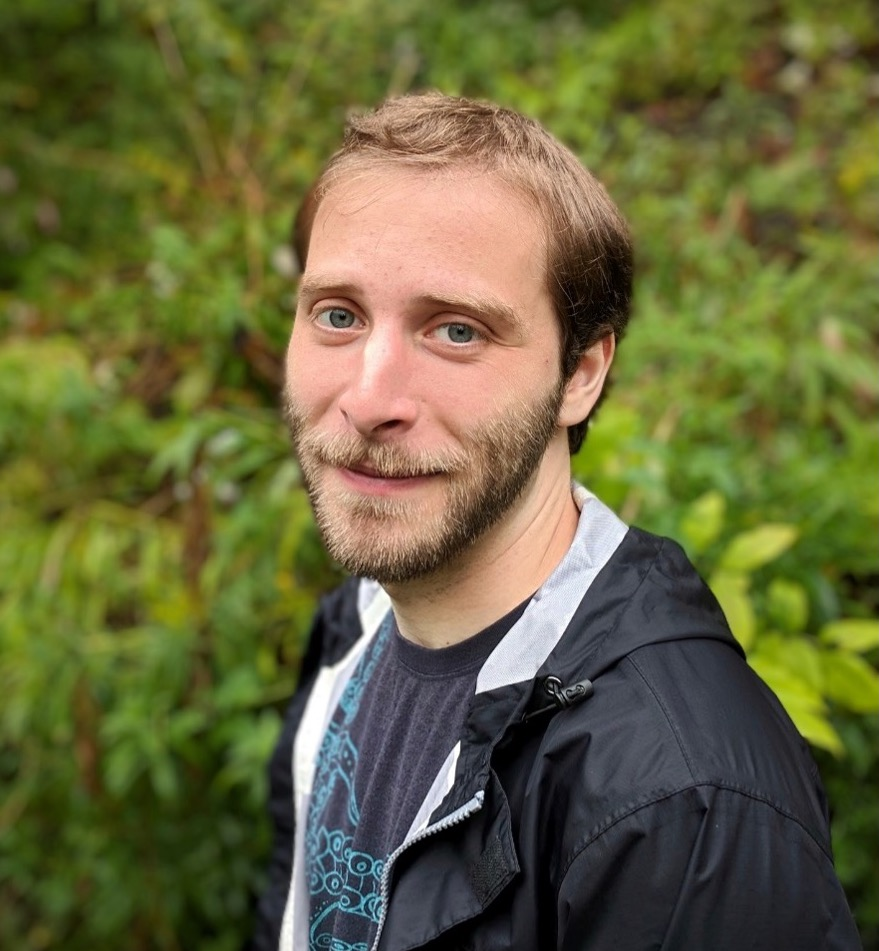
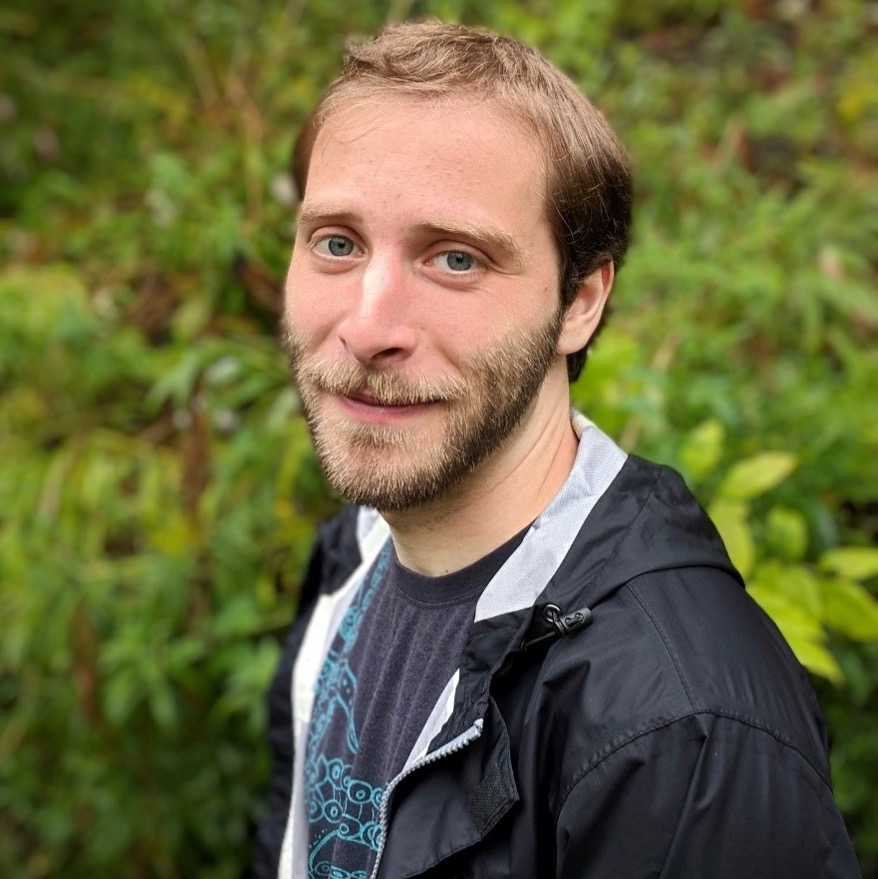
update news, pubs, team

diff --git a/_site/people/index.html b/_site/people/index.html
@@ -61,24 +61,6 @@ Twitter: <a href="https://twitter.com/popgenchen">@popgenchen</a> <br />
 Pronouns: she/her/hers
 <br /><br /><br /></p>
 
-<p><img src="http://localhost:4000/images/teampic/ElizabethFlesch.jpg" alt="" style="width: 350px; float: left; border: 60px" /></p>
-<h3 id="elizabeth-flesch---postdoctoral-scholar-co-advised-by-jay-rotella">Elizabeth Flesch - <em>Postdoctoral Scholar (co-advised by Jay Rotella)</em></h3>
-
-<p>Elizabeth is interested in understanding how external forces influence population genetics across landscapes.  She is using demographic and genomic methods to evaluate the spatial scale of dispersal and gene flow among breeding colonies of Weddell seals found in Antarctica.  This approach will help identify potential drivers of temporal variation in immigration.  Elizabeth earned her Ph.D. at Montana State University, where her dissertation addressed the population genomics of bighorn sheep in the Rocky Mountains.  In her free time, she enjoys rock climbing, gardening, and hiking.</p>
-
-<p>Pronouns: she/her/hers</p>
-
-<p><br /></p>
-
-<p><img src="http://localhost:4000/images/teampic/DanielSeidman.jpg" alt="" style="width: 350px; float: left; border: 60px" /></p>
-<h3 id="daniel-seidman---postdoctoral-scholar">Daniel Seidman - <em>Postdoctoral Scholar</em></h3>
-
-<p>Daniel joined the Chen lab in late 2022. He mainly studied computational biology for his PhD, with an emphasis on making new tools to improve or facilitate genomic analyses. He has a long-term goal of facilitating analyses of non-model organisms. In the Chen lab, he is looking into the Florida Scrub Jay, using the lab’s available datasets to investigate organismal fitness on a genomic level. He has occasionally made educational stop-motion or Claymation shorts, and is looking into making one for this lab as well.</p>
-
-<p>Pronouns: he/him/his</p>
-
-<p><br /><br /><br /><br /><br /><br /><br /><br /></p>
-
 <p><img src="http://localhost:4000/images/teampic/Shailee.jpg" alt="" style="width: 350px; float: left; border: 10px" /></p>
 <h3 id="shailee-shah---postdoctoral-scholar">Shailee Shah - <em>Postdoctoral Scholar</em></h3>
 
@@ -88,14 +70,14 @@ Pronouns: she/her/hers
 
 <p><br /><br /><br /></p>
 
-<p><img src="http://localhost:4000/images/teampic/BrianKirz.jpg" alt="" style="width: 350px; float: left; border: 60px" /></p>
+<p><img src="http://localhost:4000/images/teampic/BrianKirz.png" alt="" style="width: 350px; float: left; border: 60px" /></p>
 <h3 id="brian-kirz---graduate-student">Brian Kirz - <em>Graduate Student</em></h3>
 
-<p>Brian joined the Chen Lab in 2024 as a graduate student. As an undergraduate, he studied computational biology and developed methods to detect archaic introgression from other hominins. Brian is interested in investigating how life history strategies impact the genetics and genomics of small populations. Outside of the lab, he enjoys cooking, biking at night, and overly complicated map games.</p>
+<p>Brian joined the Chen Lab in 2024 as a graduate student. He is interested in the relative importance of selection, drift, and gene flow, as well as how they shape variation in natural populations. His work with the North American red squirrel investigates the effect of fluctuating environments on variation in fitness, long-term genetic contributions, and genome-wide selection. Outside of the lab, Brian enjoys poetry, biking at night, and overly complicated map games.</p>
 
 <p>Pronouns: he/him/his</p>
 
-<p><br /><br /><br /><br /><br /><br /><br /><br /><br /><br /></p>
+<p><br /><br /><br /><br /><br /><br /></p>
 
 <p><img src="http://localhost:4000/images/teampic/FayeRomero.jpg" alt="" style="width: 350px; float: left; border: 10px" /></p>
 <h3 id="faye-romero---graduate-student">Faye Romero - <em>Graduate Student</em></h3>
@@ -168,6 +150,8 @@ Pronouns: she/her/hers
 
 <p>Tiffany Dias (undergraduate) - became a PhD student at the University of Michigan</p>
 
+<p>Elizabeth Flesch (postdoc) - became a biologist at USFWS</p>
+
 <p>Xuewen Geng (undergraduate) - became a PhD student a UWaterloo</p>
 
 <p>Syed Ars Ghani (undergraduate) - became a Take 5 Scholar</p>
@@ -188,6 +172,8 @@ Pronouns: she/her/hers
 
 <p>Siddarth Seenivasa (undergraduate)</p>
 
+<p>Daniel Seidman (postdoc)</p>
+
 <p>Gladiana Spitz (undergraduate) - became a PhD student at CU Boulder</p>
 
 <p>Ceylin Zeybek (visiting undergraduate) - became a PhD student at Kyoto University</p>
@@ -202,6 +188,7 @@ Pronouns: she/her/hers
   <img src="/images/teampic/Tamanna.jpeg" width="250" />
   <img src="/images/teampic/Michaela.png" width="250" />
   <img src="/images/teampic/Tiffany.jpg" width="250" /> 
+  <img src="/images/teampic/ElizabethFlesch.jpg" width="250" />
   <img src="/images/teampic/Xuewen.jpg" width="250" /> 
   <img src="/images/teampic/KristinHardy.jpg" width="250" /> 
   <img src="/images/teampic/Martha.jpeg" width="250" />
@@ -211,28 +198,27 @@ Pronouns: she/her/hers
   <img src="/images/teampic/Lindsey.jpg" width="250" />
   <img src="/images/teampic/Nandini.jpeg" width="250" />
   <img src="/images/teampic/Sid.JPG" width="250" />
+  <img src="/images/teampic/DanielSeidman.jpg" width="250" />
   <img src="/images/teampic/Gladiana.jpg" width="250" />
   <img src="/images/teampic/ceylin.JPG" width="250" />
 </p>
 
 <h3 id="collaborators">Collaborators</h3>
-<p><a href="http://www.archbold-station.org/html/aboutus/staffpages/rbowman/rbowman.html">Reed Bowman</a>, Archbold Biological Station</p>
+<p><a href="http://www.sahasbarve.com/">Sahas Barve</a>, Archbold Biological Station</p>
 
 <p><a href="https://blogs.cornell.edu/clarklabblog/">Andy Clark</a>, Cornell University</p>
 
-<p><a href="https://gcbias.org/">Graham Coop</a>, UC Davis</p>
+<p><a href="https://sites.lsa.umich.edu/dantzerlab/">Ben Dantzer</a>, U Michigan</p>
 
 <p><a href="http://ecologyandevolution.cornell.edu/john-weaver-fitzpatrick">John Fitzpatrick</a>, Cornell Lab of Ornithology</p>
+
+<p><a href="https://sites.google.com/site/harriskelley/home">Kelley Harris</a>, University of Washington</p>
 
 <p><a href="https://umdrive.memphis.edu/sschoech/www/">Steve Schoech</a>, University of Memphis</p>
 
 <p><a href="https://sejohnston.com/">Susan Johnston</a>, University of Edinburgh</p>
 
-<p><a href="http://pemberton.bio.ed.ac.uk/home">Josephine Pemberton</a>, University of Edinburgh</p>
-
 <p><a href="http://www.mcadamlab.ca/">Andrew McAdam</a>, CU Boulder</p>
-
-<p><a href="https://hamiltoncs.org/townsend/">Andrea Townsend</a>, Hamilton College</p>
 
 <p><a href="https://www.montana.edu/rotella/">Jay Rotella</a>, Montana State University</p>
 

diff --git a/_site/publications/index.html b/_site/publications/index.html
@@ -52,19 +52,25 @@
   <h1 id="publications">Publications</h1>
 
 <h3 id="check-out-our-publications-on-google-scholar">Check out our publications on <a href="https://scholar.google.com/citations?user=VOpNPTgAAAAJ&amp;hl=en">Google Scholar</a></h3>
-<p><img src="http://localhost:4000/images/pubpic/PLOSgeneticsAug2017cover.png" class="img-responsive" width="25%" style="float: right; padding-left: 15px" />
+<p><img src="http://localhost:4000/images/pubpic/EcologyLettersJan2025Cover.png" class="img-responsive" width="25%" style="float: right; padding-left: 15px" />
 <br /></p>
 
 <h3 id="peer-reviewed"><strong>Peer-reviewed</strong></h3>
-<p><strong>Summers J</strong>, Cosgrove EJ, Bowman R, Fitzpatrick JW, <strong>Chen N</strong>. <em>In press</em>. Density dependence maintains long-term stability despite increased isolation and inbreeding in the Florida Scrub-Jay. <em>Ecology Letters</em>. <a href="https://doi.org/10.1101/2024.01.10.575127">bioRxiv doi.</a><br />
+<p>Linderoth T, Deaner L, <strong>Chen N</strong>, Bowman R, Boughton R, Fitzpatrick SW. <em>In press</em>. Translocations spur population growth but fail to prevent genetic erosion in imperiled Florida Scrub-Jays. <em>Current Biology</em>. <a href="https://doi.org/10.1101/2023.11.11.566550">bioRxiv</a><br />
 <br /></p>
 
-<p><strong>Samanta N</strong>, <strong>Schiller E</strong>, <strong>López-Molini I</strong>, <strong>Martin M</strong>, Flores I, Meyer AS, <strong>Chen N</strong>. <em>In press</em>. An endometriosis symptom-based predictive model as an accessible, noninvasive diagnostic tool. <em>Journal of Endometriosis and Pelvic Pain Disorders</em>.<br />
+<p><strong>Summers J</strong>, Cosgrove EJ, Bowman R, Fitzpatrick JW, <strong>Chen N</strong>. 2024. Density dependence maintains long-term stability despite increased isolation and inbreeding in the Florida Scrub-Jay. <a href="https://doi.org/10.1111/ele.14483"><em>Ecology Letters</em> 27: e14483.</a><br />
 <br /></p>
 
-<p><strong>Geng X</strong>, <strong>Summers J</strong>, <strong>Chen N</strong>. 2024. Ecological niche contributes to the persistence of the Western x Glaucous-winged Gull hybrid zone. <a href="https://doi.org/10.1002/ece3.11678"><em>Ecology and Evolution</em> 14: e11678.</a><br /></p>
+<p><strong>Romero FR</strong>, <strong>Beaudry FEG</strong>, <strong>Hovman Warner E</strong>, Nguyen TN, Fitzpatrick JW, <strong>Chen N</strong>. 2024. A new high-quality genome assembly and annotation for the threatened Florida Scrub-Jay (<em>Aphelocoma coerulescens</em>). <a href="https://doi.org/10.1093/g3journal/jkae232"><em>G3</em>: jkae232.</a><br />
+<br /></p>
 
-<p><img src="http://localhost:4000/images/pubpic/GeneticsJuly2024cover.png" class="img-responsive" width="25%" style="float: right; padding-left: 15px" />
+<p><img src="http://localhost:4000/images/pubpic/GeneticsJuly2024cover.png" class="img-responsive" width="25%" style="float: right; padding-left: 15px" /></p>
+
+<p><strong>Samanta N</strong>, <strong>Schiller E</strong>, <strong>López-Molini I</strong>, <strong>Martin M</strong>, Flores I, Meyer AS, <strong>Chen N</strong>. 2024. An endometriosis symptom-based predictive model as an accessible, noninvasive diagnostic tool. <a href="https://journals.sagepub.com/doi/10.1177/22840265241257295"><em>Journal of Endometriosis and Pelvic Pain Disorders</em> 16(2): 71-78.</a><br />
+<br /></p>
+
+<p><strong>Geng X</strong>, <strong>Summers J</strong>, <strong>Chen N</strong>. 2024. Ecological niche contributes to the persistence of the Western x Glaucous-winged Gull hybrid zone. <a href="https://doi.org/10.1002/ece3.11678"><em>Ecology and Evolution</em> 14: e11678.</a><br />
 <br /></p>
 
 <p><strong>Driscoll RMH</strong>, <strong>Beaudry FEG</strong>, Cosgrove EJ, Bowman R, Fitzpatrick JW, Schoech SJ, <strong>Chen N</strong>. 2024. Allele frequency dynamics under sex-biased demography and sex-specific inheritance in a pedigreed population. <a href="https://doi.org/10.1093/genetics/iyae075"><em>Genetics</em> 227: iyae075.</a><br />
@@ -72,6 +78,8 @@
 
 <p>Townsend A, Jones M, <strong>Chen N</strong>, Chivily C, McAndrews C, Clark A, McGowan K, Eimes J. 2023. Increased genetic diversity and immigration after West Nile virus emergence in American crows: No evidence for a genetic bottleneck. <a href="https://doi.org/10.1111/mec.17037"><em>Molecular Ecology</em> 00: 1–10.</a><br />
 <br /></p>
+
+<p><img src="http://localhost:4000/images/pubpic/PLOSgeneticsAug2017cover.png" class="img-responsive" width="25%" style="float: right; padding-left: 15px" /></p>
 
 <p><strong>Summers J</strong>, Lukas D, Logan C, <strong>Chen N</strong>. 2023. The role of climate change and niche shifts in divergent range dynamics of a sister-species pair. <a href="https://peercommunityjournal.org/articles/10.24072/pcjournal.248/"><em>Peer Community Journal</em> 3: e23. doi: 10.24072/pcjournal.248.</a><br />
 <br /></p>
@@ -133,7 +141,17 @@
 <p><strong>Chen N</strong>, Gascoin F, Muller E, Karpinski G, Stiewe C, Snyder GJ. 2005. Macroscopic thermoelectric inhomogeneities of (AgSbTe2)<sub>x</sub>(PbTe)<sub>1-x</sub>. <a href="http://scitation.aip.org/content/aip/journal/apl/87/17/10.1063/1.2056590"><em>Applied Physics Letters</em> 87: 171903.</a> <br />
 <br /></p>
 
+<h3 id="preprints"><strong>Preprints</strong></h3>
+<p>Nguyen TN, Cosgrove EJ, <strong>Chen N</strong>, Lehr N, Lokey MG, Beaudry FE, Fitzpatrick SW, Bowman R, Miller K, Fitzpatrick JW, Clark AG. Whole-genome sequencing across space and time reveals impact of population decline and reduced gene flow in Florida Scrub-Jays. <a href="https://doi.org/10.1101/2024.11.05.622154"><em>bioRxiv</em> doi: https://doi.org/10.1101/2024.11.05.622154</a>.<br />
+<br /></p>
+
+<p><strong>Shah S</strong>, <strong>Diamond J</strong>, Barve S, Cosgrove EJ, Bowman R, Fitzpatrick JW, <strong>Chen N</strong>. Lifetime fitness benefits of breeding site fidelity and low costs of inbreeding permit inbreeding tolerance in an avian cooperative breeder. <a href="https://doi.org/10.1101/2024.09.21.614049"><em>bioRxiv</em> doi: https://doi.org/10.1101/2024.09.21.614049</a>.<br />
+<br /></p>
+
 <h3 id="other"><strong>Other</strong></h3>
+<p>Tringali A, <strong>Chen N</strong>. 2024. In Memoriam: Reed Bowman, 1958–2023. <a href="https://doi.org/10.5751/JFO-00440-950114"><em>Journal of Field Ornithology</em> 95(1): art14.</a><br />
+<br /></p>
+
 <p><strong>Chen N</strong>. 2020. A gene for color differences between sexes. <a href="https://science.sciencemag.org/content/368/6496/1185.abstract"><em>Science</em> 368(6496): 1185-1186.</a> <br />
 <br /></p>
 

diff --git a/_site/index.html b/_site/index.html
@@ -74,6 +74,12 @@ We acknowledge that the Chen lab operates on the colonized land of the Onöndowa
 <h4>News</h4>
 
 
+<b>Jan 2025</b>
+<p>Jeremy's paper was featured on the cover of <a href='https://doi.org/10.1111/ele.14483'>Ecology Letters</a>. <img src='/images/pubpic/EcologyLettersJan2025Cover.png' class='img-responsive' style='max-width: 240px' /></p>
+
+<b>Sept 2024</b>
+<p>Faye's paper on the new Florida Scrub-Jay genome assembly, annotation, and linkage map was published as a featured article in <a href='https://doi.org/10.1093/g3journal/jkae232'> G3</a>. Also check out Shailee's <a href='https://doi.org/10.1101/2024.09.21.614049'> preprint</a> on breeding site fidelity and inbreeding tolerance in the Florida Scrub-Jay.</p>
+
 <b>July 2024</b>
 <p>Rose and Felix's paper was featured on the cover of <a href='https://doi.org/10.1093/genetics/iyae075'>Genetics</a> and Xuewen and Jeremy's paper was published in <a href='https://doi.org/10.1002/ece3.11678/'>Ecology and Evolution</a>. Also congratulations to Elizabeth for getting a job at USFWS! <img src='/images/pubpic/GeneticsJuly2024cover.png' class='img-responsive' style='max-width: 240px' /></p>
 
@@ -82,12 +88,6 @@ We acknowledge that the Chen lab operates on the colonized land of the Onöndowa
 
 <b>May 2024</b>
 <p>Congratulations to Alex for graduating and receiving a Grace McCormack Fund for Biology Prize and the Ayman Amin-Salem Award! Also Faye got an AOS Student Research Grant and graduate student Brian Kirz officially joins the team.</p>
-
-<b>April 2024</b>
-<p>Faye posted a <a href='https://doi.org/10.1101/2024.04.05.588142'> preprint</a> on our new high-quality genome assembly and annotation for the Florida Scrub-Jay. </p>
-
-<b>March 2024</b>
-<p>Congratulations to Abby for winning a Beckman Scholarship!</p>
 
 
 <h4><a href="http://localhost:4000/allnews.html">... see all News</a></h4>

diff --git a/_site/allnews.html b/_site/allnews.html
@@ -51,6 +51,12 @@
         <div id="textid" class="col-sm-12">
   <h1 id="news">News</h1>
 
+<p><b>Jan 2025</b> <br />
+Jeremy’s paper was featured on the cover of <a href="https://doi.org/10.1111/ele.14483">Ecology Letters</a>. <img src="/images/pubpic/EcologyLettersJan2025Cover.png" class="img-responsive" style="max-width: 240px" /></p>
+
+<p><b>Sept 2024</b> <br />
+Faye’s paper on the new Florida Scrub-Jay genome assembly, annotation, and linkage map was published as a featured article in <a href="https://doi.org/10.1093/g3journal/jkae232"> G3</a>. Also check out Shailee’s <a href="https://doi.org/10.1101/2024.09.21.614049"> preprint</a> on breeding site fidelity and inbreeding tolerance in the Florida Scrub-Jay.</p>
+
 <p><b>July 2024</b> <br />
 Rose and Felix’s paper was featured on the cover of <a href="https://doi.org/10.1093/genetics/iyae075">Genetics</a> and Xuewen and Jeremy’s paper was published in <a href="https://doi.org/10.1002/ece3.11678/">Ecology and Evolution</a>. Also congratulations to Elizabeth for getting a job at USFWS! <img src="/images/pubpic/GeneticsJuly2024cover.png" class="img-responsive" style="max-width: 240px" /></p>
 

diff --git a/_pages/team.md b/_pages/team.md
@@ -19,23 +19,6 @@ Twitter: [@popgenchen](https://twitter.com/popgenchen) <br>
 Pronouns: she/her/hers
 <br><br><br>
 
-![]({{ site.url }}{{ site.baseurl }}/images/teampic/ElizabethFlesch.jpg){: style="width: 350px; float: left; border: 60px"}
-### Elizabeth Flesch - *Postdoctoral Scholar (co-advised by Jay Rotella)*
-
-Elizabeth is interested in understanding how external forces influence population genetics across landscapes.  She is using demographic and genomic methods to evaluate the spatial scale of dispersal and gene flow among breeding colonies of Weddell seals found in Antarctica.  This approach will help identify potential drivers of temporal variation in immigration.  Elizabeth earned her Ph.D. at Montana State University, where her dissertation addressed the population genomics of bighorn sheep in the Rocky Mountains.  In her free time, she enjoys rock climbing, gardening, and hiking.
-
-Pronouns: she/her/hers
-
-<br>
-
-![]({{ site.url }}{{ site.baseurl }}/images/teampic/DanielSeidman.jpg){: style="width: 350px; float: left; border: 60px"}
-### Daniel Seidman - *Postdoctoral Scholar*
-
-Daniel joined the Chen lab in late 2022. He mainly studied computational biology for his PhD, with an emphasis on making new tools to improve or facilitate genomic analyses. He has a long-term goal of facilitating analyses of non-model organisms. In the Chen lab, he is looking into the Florida Scrub Jay, using the lab’s available datasets to investigate organismal fitness on a genomic level. He has occasionally made educational stop-motion or Claymation shorts, and is looking into making one for this lab as well.
-
-Pronouns: he/him/his
-
-<br><br><br><br><br><br><br><br>
 
 ![]({{ site.url }}{{ site.baseurl }}/images/teampic/Shailee.jpg){: style="width: 350px; float: left; border: 10px"}
 ### Shailee Shah - *Postdoctoral Scholar*
@@ -46,14 +29,14 @@ Pronouns: she/her/hers
 
 <br><br><br>
 
-![]({{ site.url }}{{ site.baseurl }}/images/teampic/BrianKirz.jpg){: style="width: 350px; float: left; border: 60px"}
+![]({{ site.url }}{{ site.baseurl }}/images/teampic/BrianKirz.png){: style="width: 350px; float: left; border: 60px"}
 ### Brian Kirz - *Graduate Student*
 
-Brian joined the Chen Lab in 2024 as a graduate student. As an undergraduate, he studied computational biology and developed methods to detect archaic introgression from other hominins. Brian is interested in investigating how life history strategies impact the genetics and genomics of small populations. Outside of the lab, he enjoys cooking, biking at night, and overly complicated map games.
+Brian joined the Chen Lab in 2024 as a graduate student. He is interested in the relative importance of selection, drift, and gene flow, as well as how they shape variation in natural populations. His work with the North American red squirrel investigates the effect of fluctuating environments on variation in fitness, long-term genetic contributions, and genome-wide selection. Outside of the lab, Brian enjoys poetry, biking at night, and overly complicated map games.
 
 Pronouns: he/him/his
 
-<br><br><br><br><br><br><br><br><br><br>
+<br><br><br><br><br><br>
 
 ![]({{ site.url }}{{ site.baseurl }}/images/teampic/FayeRomero.jpg){: style="width: 350px; float: left; border: 10px"}
 ### Faye Romero - *Graduate Student*
@@ -126,6 +109,8 @@ Jonathan Chow (undergraduate) - became a MS student at Georgia Tech
 
 Tiffany Dias (undergraduate) - became a PhD student at the University of Michigan
 
+Elizabeth Flesch (postdoc) - became a biologist at USFWS
+
 Xuewen Geng (undergraduate) - became a PhD student a UWaterloo
 
 Syed Ars Ghani (undergraduate) - became a Take 5 Scholar
@@ -146,6 +131,8 @@ Nandini Samanta (undergraduate) - became a lab tech at Harvard
  
 Siddarth Seenivasa (undergraduate)
 
+Daniel Seidman (postdoc)
+
 Gladiana Spitz (undergraduate) - became a PhD student at CU Boulder
 
 Ceylin Zeybek (visiting undergraduate) - became a PhD student at Kyoto University
@@ -160,6 +147,7 @@ Ph.D. rotation students: Maria Isabel Castano, Rose Driscoll, Matthew Lindsay
   <img src="/images/teampic/Tamanna.jpeg" width="250" />
   <img src="/images/teampic/Michaela.png" width="250" />
   <img src="/images/teampic/Tiffany.jpg" width="250" /> 
+  <img src="/images/teampic/ElizabethFlesch.jpg" width="250" />
   <img src="/images/teampic/Xuewen.jpg" width="250" /> 
   <img src="/images/teampic/KristinHardy.jpg" width="250" /> 
   <img src="/images/teampic/Martha.jpeg" width="250" />
@@ -169,28 +157,27 @@ Ph.D. rotation students: Maria Isabel Castano, Rose Driscoll, Matthew Lindsay
   <img src="/images/teampic/Lindsey.jpg" width="250" />
   <img src="/images/teampic/Nandini.jpeg" width="250" />
   <img src="/images/teampic/Sid.JPG" width="250" />
+  <img src="/images/teampic/DanielSeidman.jpg" width="250" />
   <img src="/images/teampic/Gladiana.jpg" width="250" />
   <img src="/images/teampic/ceylin.JPG" width="250" />
 </p>
 
 ### Collaborators
-[Reed Bowman](http://www.archbold-station.org/html/aboutus/staffpages/rbowman/rbowman.html), Archbold Biological Station
+[Sahas Barve](http://www.sahasbarve.com/), Archbold Biological Station
 
 [Andy Clark](https://blogs.cornell.edu/clarklabblog/), Cornell University
 
-[Graham Coop](https://gcbias.org/), UC Davis
+[Ben Dantzer](https://sites.lsa.umich.edu/dantzerlab/), U Michigan
 
 [John Fitzpatrick](http://ecologyandevolution.cornell.edu/john-weaver-fitzpatrick), Cornell Lab of Ornithology
+
+[Kelley Harris](https://sites.google.com/site/harriskelley/home), University of Washington 
 
 [Steve Schoech](https://umdrive.memphis.edu/sschoech/www/), University of Memphis
 
 [Susan Johnston](https://sejohnston.com/), University of Edinburgh
 
-[Josephine Pemberton](http://pemberton.bio.ed.ac.uk/home), University of Edinburgh
-
 [Andrew McAdam](http://www.mcadamlab.ca/), CU Boulder
-
-[Andrea Townsend](https://hamiltoncs.org/townsend/), Hamilton College
 
 [Jay Rotella](https://www.montana.edu/rotella/), Montana State University
 

diff --git a/_pages/publications.md b/_pages/publications.md
@@ -11,19 +11,25 @@ permalink: /publications/
 
 
 ### Check out our publications on [Google Scholar](https://scholar.google.com/citations?user=VOpNPTgAAAAJ&hl=en)
-<img src = "{{ site.url}}{{ site.baseurl}}/images/pubpic/PLOSgeneticsAug2017cover.png" class="img-responsive" width = "25%" style="float: right; padding-left: 15px" />
+<img src = "{{ site.url}}{{ site.baseurl}}/images/pubpic/EcologyLettersJan2025Cover.png" class="img-responsive" width = "25%" style="float: right; padding-left: 15px" />
 <br>
 
 ### **Peer-reviewed**
-**Summers J**, Cosgrove EJ, Bowman R, Fitzpatrick JW, **Chen N**. *In press*. Density dependence maintains long-term stability despite increased isolation and inbreeding in the Florida Scrub-Jay. *Ecology Letters*. [bioRxiv doi.](https://doi.org/10.1101/2024.01.10.575127)<br>
+Linderoth T, Deaner L, **Chen N**, Bowman R, Boughton R, Fitzpatrick SW. *In press*. Translocations spur population growth but fail to prevent genetic erosion in imperiled Florida Scrub-Jays. *Current Biology*. [bioRxiv](https://doi.org/10.1101/2023.11.11.566550)<br>
 <br>
 
-**Samanta N**, **Schiller E**, **López-Molini I**, **Martin M**, Flores I, Meyer AS, **Chen N**. *In press*. An endometriosis symptom-based predictive model as an accessible, noninvasive diagnostic tool. *Journal of Endometriosis and Pelvic Pain Disorders*.<br>
+**Summers J**, Cosgrove EJ, Bowman R, Fitzpatrick JW, **Chen N**. 2024. Density dependence maintains long-term stability despite increased isolation and inbreeding in the Florida Scrub-Jay. [*Ecology Letters* 27: e14483.](https://doi.org/10.1111/ele.14483)<br>
+<br>
+
+**Romero FR**, **Beaudry FEG**, **Hovman Warner E**, Nguyen TN, Fitzpatrick JW, **Chen N**. 2024. A new high-quality genome assembly and annotation for the threatened Florida Scrub-Jay (*Aphelocoma coerulescens*). [*G3*: jkae232.](https://doi.org/10.1093/g3journal/jkae232)<br>
+<br>
+
+<img src = "{{ site.url}}{{ site.baseurl}}/images/pubpic/GeneticsJuly2024cover.png" class="img-responsive" width = "25%" style="float: right; padding-left: 15px" />
+
+**Samanta N**, **Schiller E**, **López-Molini I**, **Martin M**, Flores I, Meyer AS, **Chen N**. 2024. An endometriosis symptom-based predictive model as an accessible, noninvasive diagnostic tool. [*Journal of Endometriosis and Pelvic Pain Disorders* 16(2): 71-78.](https://journals.sagepub.com/doi/10.1177/22840265241257295)<br>
 <br>
 
 **Geng X**, **Summers J**, **Chen N**. 2024. Ecological niche contributes to the persistence of the Western x Glaucous-winged Gull hybrid zone. [*Ecology and Evolution* 14: e11678.](https://doi.org/10.1002/ece3.11678)<br>
-
-<img src = "{{ site.url}}{{ site.baseurl}}/images/pubpic/GeneticsJuly2024cover.png" class="img-responsive" width = "25%" style="float: right; padding-left: 15px" />
 <br>
 
 **Driscoll RMH**, **Beaudry FEG**, Cosgrove EJ, Bowman R, Fitzpatrick JW, Schoech SJ, **Chen N**. 2024. Allele frequency dynamics under sex-biased demography and sex-specific inheritance in a pedigreed population. [*Genetics* 227: iyae075.](https://doi.org/10.1093/genetics/iyae075)<br>
@@ -31,6 +37,8 @@ permalink: /publications/
 
 Townsend A, Jones M, **Chen N**, Chivily C, McAndrews C, Clark A, McGowan K, Eimes J. 2023. Increased genetic diversity and immigration after West Nile virus emergence in American crows: No evidence for a genetic bottleneck. [*Molecular Ecology* 00: 1–10.](https://doi.org/10.1111/mec.17037)<br>
 <br>
+
+<img src = "{{ site.url}}{{ site.baseurl}}/images/pubpic/PLOSgeneticsAug2017cover.png" class="img-responsive" width = "25%" style="float: right; padding-left: 15px" />
 
 **Summers J**, Lukas D, Logan C, **Chen N**. 2023. The role of climate change and niche shifts in divergent range dynamics of a sister-species pair. [*Peer Community Journal* 3: e23. doi: 10.24072/pcjournal.248.](https://peercommunityjournal.org/articles/10.24072/pcjournal.248/)<br>
 <br>
@@ -92,7 +100,17 @@ Canfield MR, Greene E, Moreau CS, **Chen N**, Pierce NE. 2008. Exploring phenoty
 **Chen N**, Gascoin F, Muller E, Karpinski G, Stiewe C, Snyder GJ. 2005. Macroscopic thermoelectric inhomogeneities of (AgSbTe2)<sub>x</sub>(PbTe)<sub>1-x</sub>. [*Applied Physics Letters* 87: 171903.](http://scitation.aip.org/content/aip/journal/apl/87/17/10.1063/1.2056590) <br>
 <br>
 
+### **Preprints**
+Nguyen TN, Cosgrove EJ, **Chen N**, Lehr N, Lokey MG, Beaudry FE, Fitzpatrick SW, Bowman R, Miller K, Fitzpatrick JW, Clark AG. Whole-genome sequencing across space and time reveals impact of population decline and reduced gene flow in Florida Scrub-Jays. [*bioRxiv* doi: https://doi.org/10.1101/2024.11.05.622154](https://doi.org/10.1101/2024.11.05.622154).<br>
+<br>
+
+**Shah S**, **Diamond J**, Barve S, Cosgrove EJ, Bowman R, Fitzpatrick JW, **Chen N**. Lifetime fitness benefits of breeding site fidelity and low costs of inbreeding permit inbreeding tolerance in an avian cooperative breeder. [*bioRxiv* doi: https://doi.org/10.1101/2024.09.21.614049](https://doi.org/10.1101/2024.09.21.614049).<br>
+<br>
+
 ### **Other**
+Tringali A, **Chen N**. 2024. In Memoriam: Reed Bowman, 1958–2023. [*Journal of Field Ornithology* 95(1): art14.](https://doi.org/10.5751/JFO-00440-950114)<br>
+<br>
+
 **Chen N**. 2020. A gene for color differences between sexes. [*Science* 368(6496): 1185-1186.](https://science.sciencemag.org/content/368/6496/1185.abstract) <br>
 <br>
 
